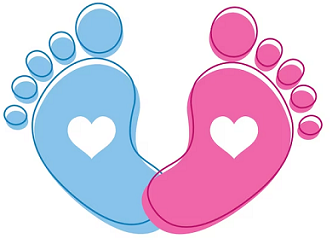
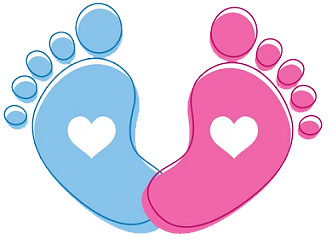
pies sin fondo

diff --git a/src/App.css b/src/App.css
@@ -36,12 +36,14 @@ h1,h2{
 
 .birthday-image {
   width: 300px;
+  height: 200px;
   border-radius: 10px;
   margin-bottom: 20px;
 }
 
 .pies {
-  width: 300px;
+  width: 250px;
+  height: 170px;
   border-radius: 10px;
   margin-bottom: 20px;
 }
